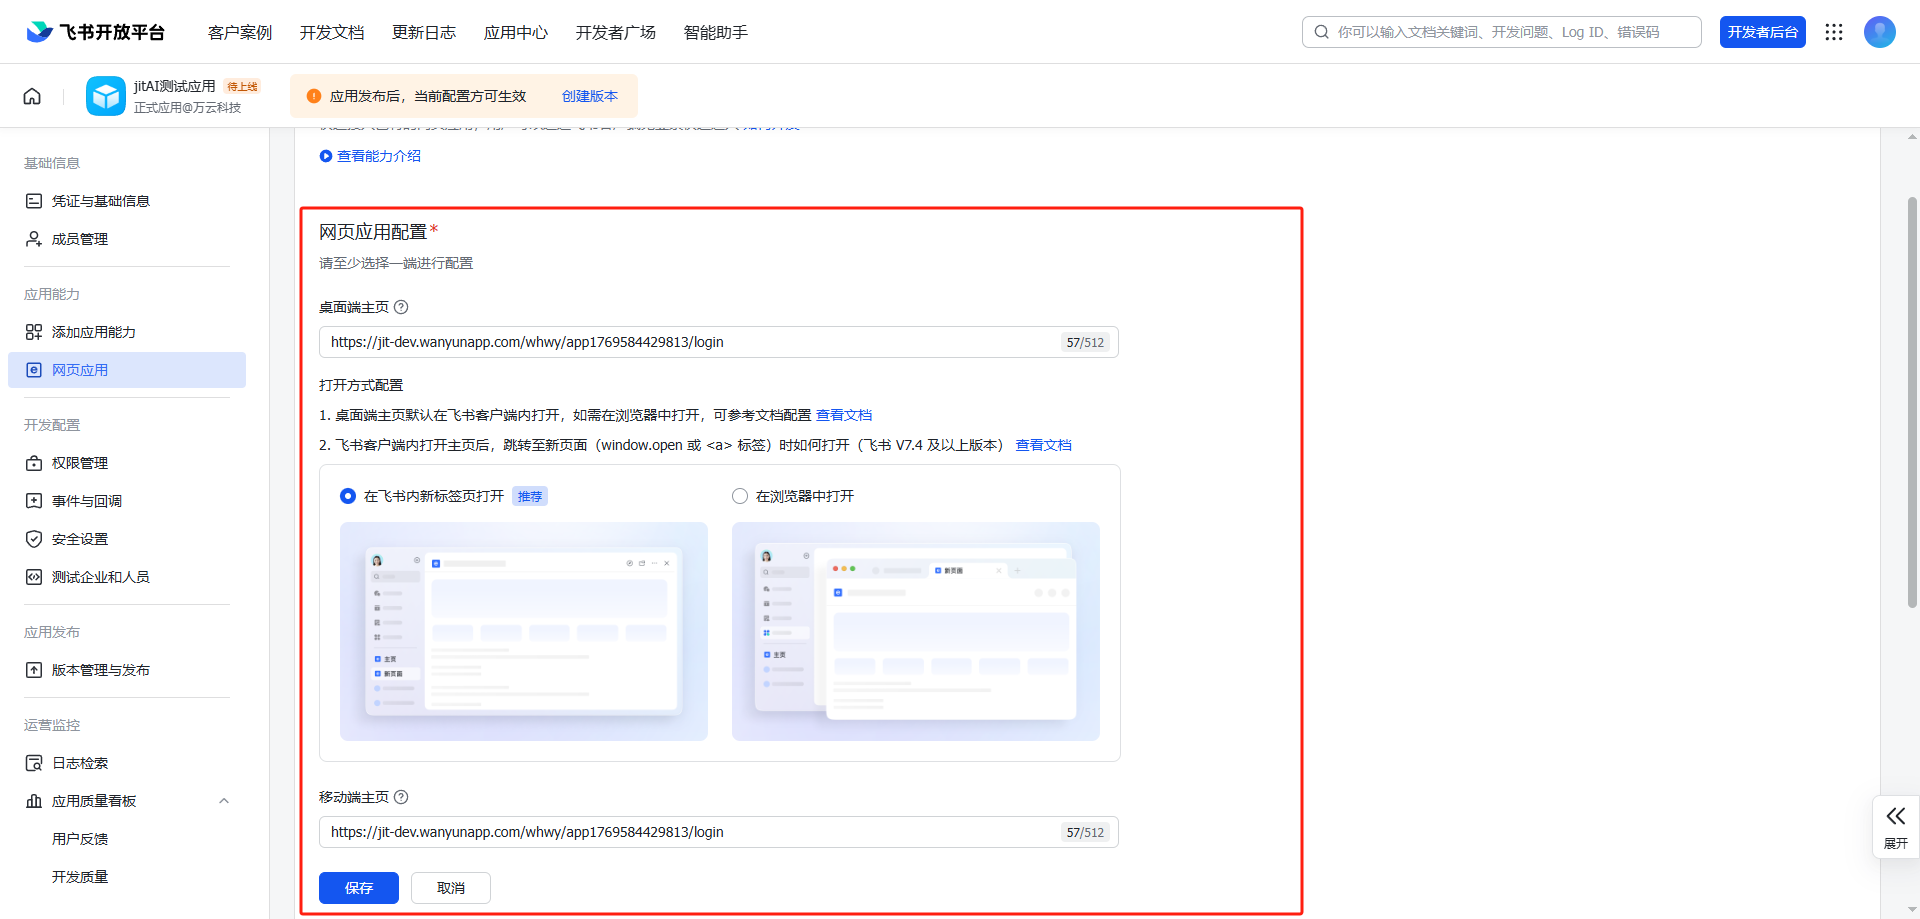
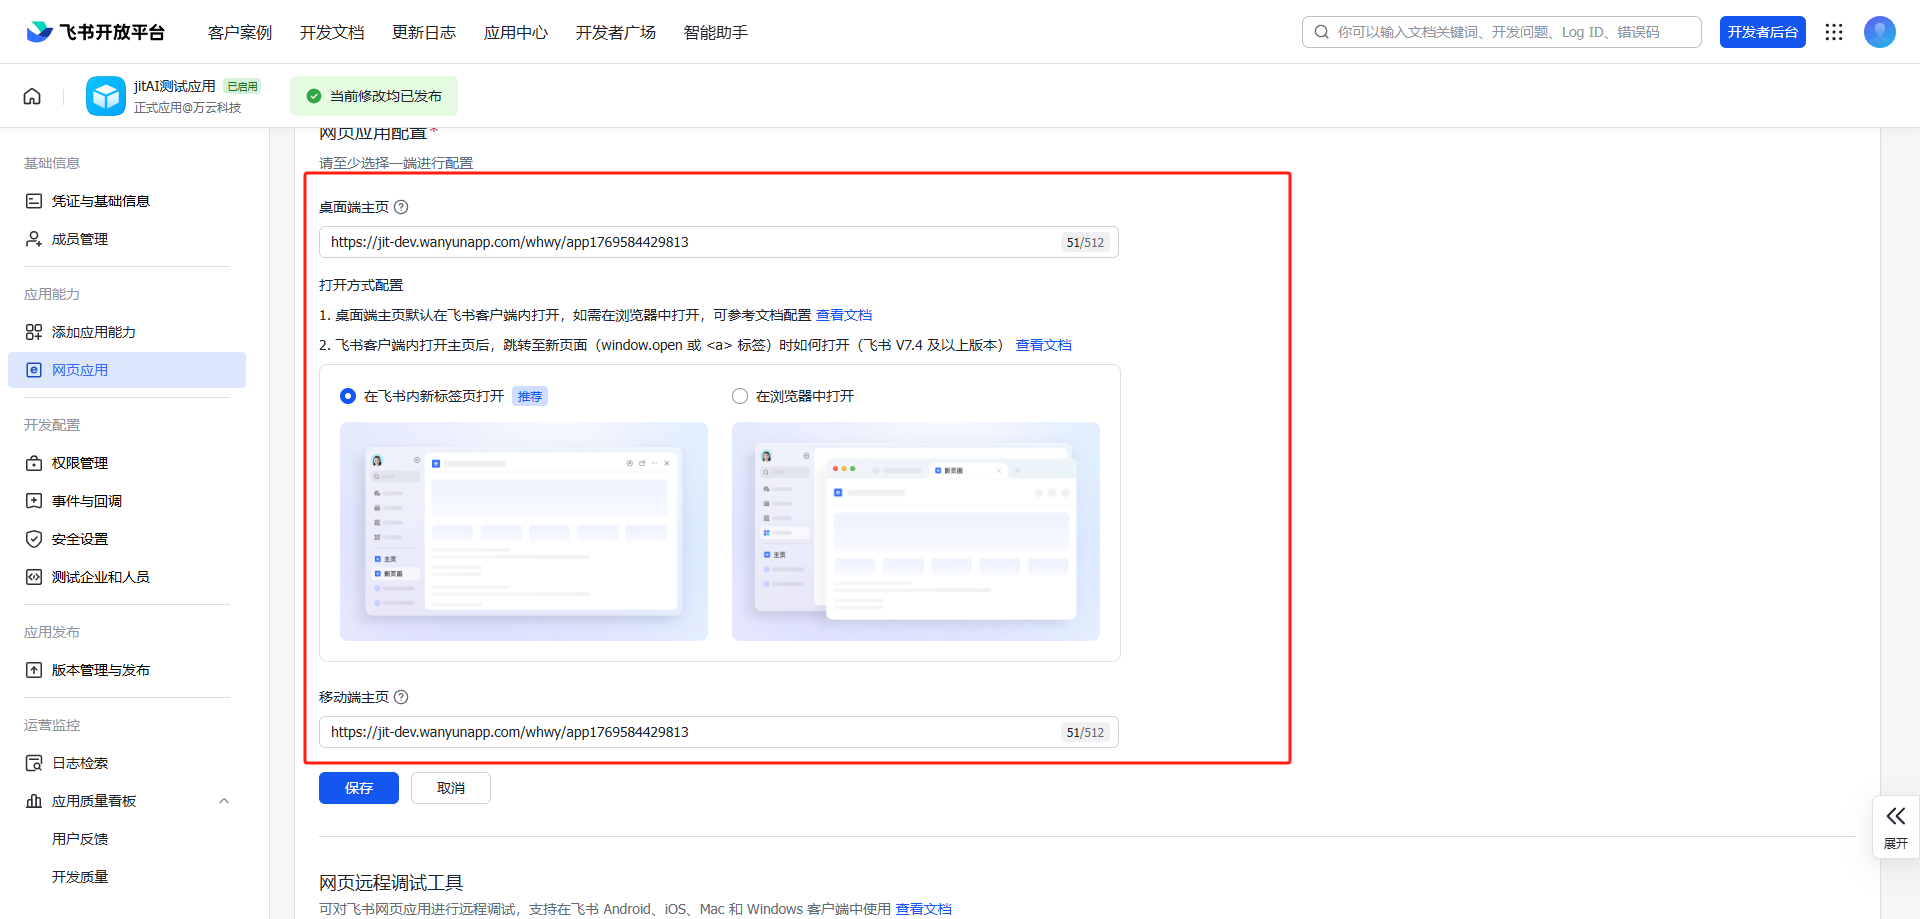
fix: 完善飞书文档

diff --git a/docs/devguide/user-and-permission/feishu-workspace-app-guide.md b/docs/devguide/user-and-permission/feishu-workspace-app-guide.md
@@ -1,4 +1,4 @@
-# How to Add Jit Application to Feishu Workspace and Implement Password-Free Login and Mobile Experience
+# How to Add JitAI Application to Feishu Workspace and Implement Password-Free Login and Mobile Experience
 
 ## Add an Enterprise Internal Self-built Application in Feishu Backend
 
@@ -16,9 +16,9 @@
 
 4.  After adding, you need to configure the desktop homepage and mobile homepage with relevant links. These two can be configured with the same link. At the same time, configure the opening method to open in a new tab within Feishu.
 
-Configuration address rule: `https://domain/{orgid}/{appId}/login` `protocol://domain/organization id/application id/login`
+Configuration address rule: `https://domain/{orgid}/{appId}` `protocol://domain/organization id/application id`
 
-For example, my application: https://jit-dev.wanyunapp.com/whwy/app1769584429813/login
+For example, my application: https://jit-dev.wanyunapp.com/whwy/app1769584429813
 
 ![img4.png](./img/fs/img4.png)
 
@@ -46,15 +46,15 @@ For example, my application: https://jit-dev.wanyunapp.com/whwy/app1769584429813
 
 ![img10.png](./img/fs/img10.png)
 
-**Although the application has been added to the workspace, password-free login has not been implemented yet. Even if the password-free link is configured, clicking this application will still enter the login page. At this time, you need to create a Feishu self-built organizational structure in the Jit application**
+**Although the application has been added to the workspace, password-free login has not been implemented yet. Even if the password-free link is configured, clicking this application will still enter the login page. At this time, you need to create a Feishu self-built organizational structure in the JitAI application**
 
-## Create a Feishu Self-built Organizational Structure in Jit Application
+## Create a Feishu Self-built Organizational Structure in JitAI Application
 
 1.  Get the configuration information of the Feishu self-built application. Enter the application created above and go to [Credentials and Basic Information] to see the APP ID and APP Secret information.
 
 ![img11.png](./img/fs/img11.png)
 
-2.  At this time, create a new Feishu self-built organizational structure in the Jit application. The entrance is as follows
+2.  At this time, create a new Feishu self-built organizational structure in the JitAI application. The entrance is as follows
 
 ![img12.png](./img/fs/img12.png)
 

diff --git a/i18n/zh/docusaurus-plugin-content-docs/current/devguide/user-and-permission/feishu-workspace-app-guide.md b/i18n/zh/docusaurus-plugin-content-docs/current/devguide/user-and-permission/feishu-workspace-app-guide.md
@@ -16,9 +16,9 @@
 
 4.  添加之后需要配置 ，桌面端主页、移动端主页配置相关链接，这两个可以配置同一个链接。同时打开方式配置选择在飞书内新标签页打开。
 
-配置地址的规则：`https://domain/{orgid}/{appId}/login` `协议://域名/组织 id/应用 id/login`
+配置地址的规则：`https://domain/{orgid}/{appId}` `协议://域名/组织 id/应用 id`
 
-比如我的应用：https://jit-dev.wanyunapp.com/whwy/app1769584429813/login
+比如我的应用：https://jit-dev.wanyunapp.com/whwy/app1769584429813
 
 ![img4.png](./img/fs/img4.png)
 
